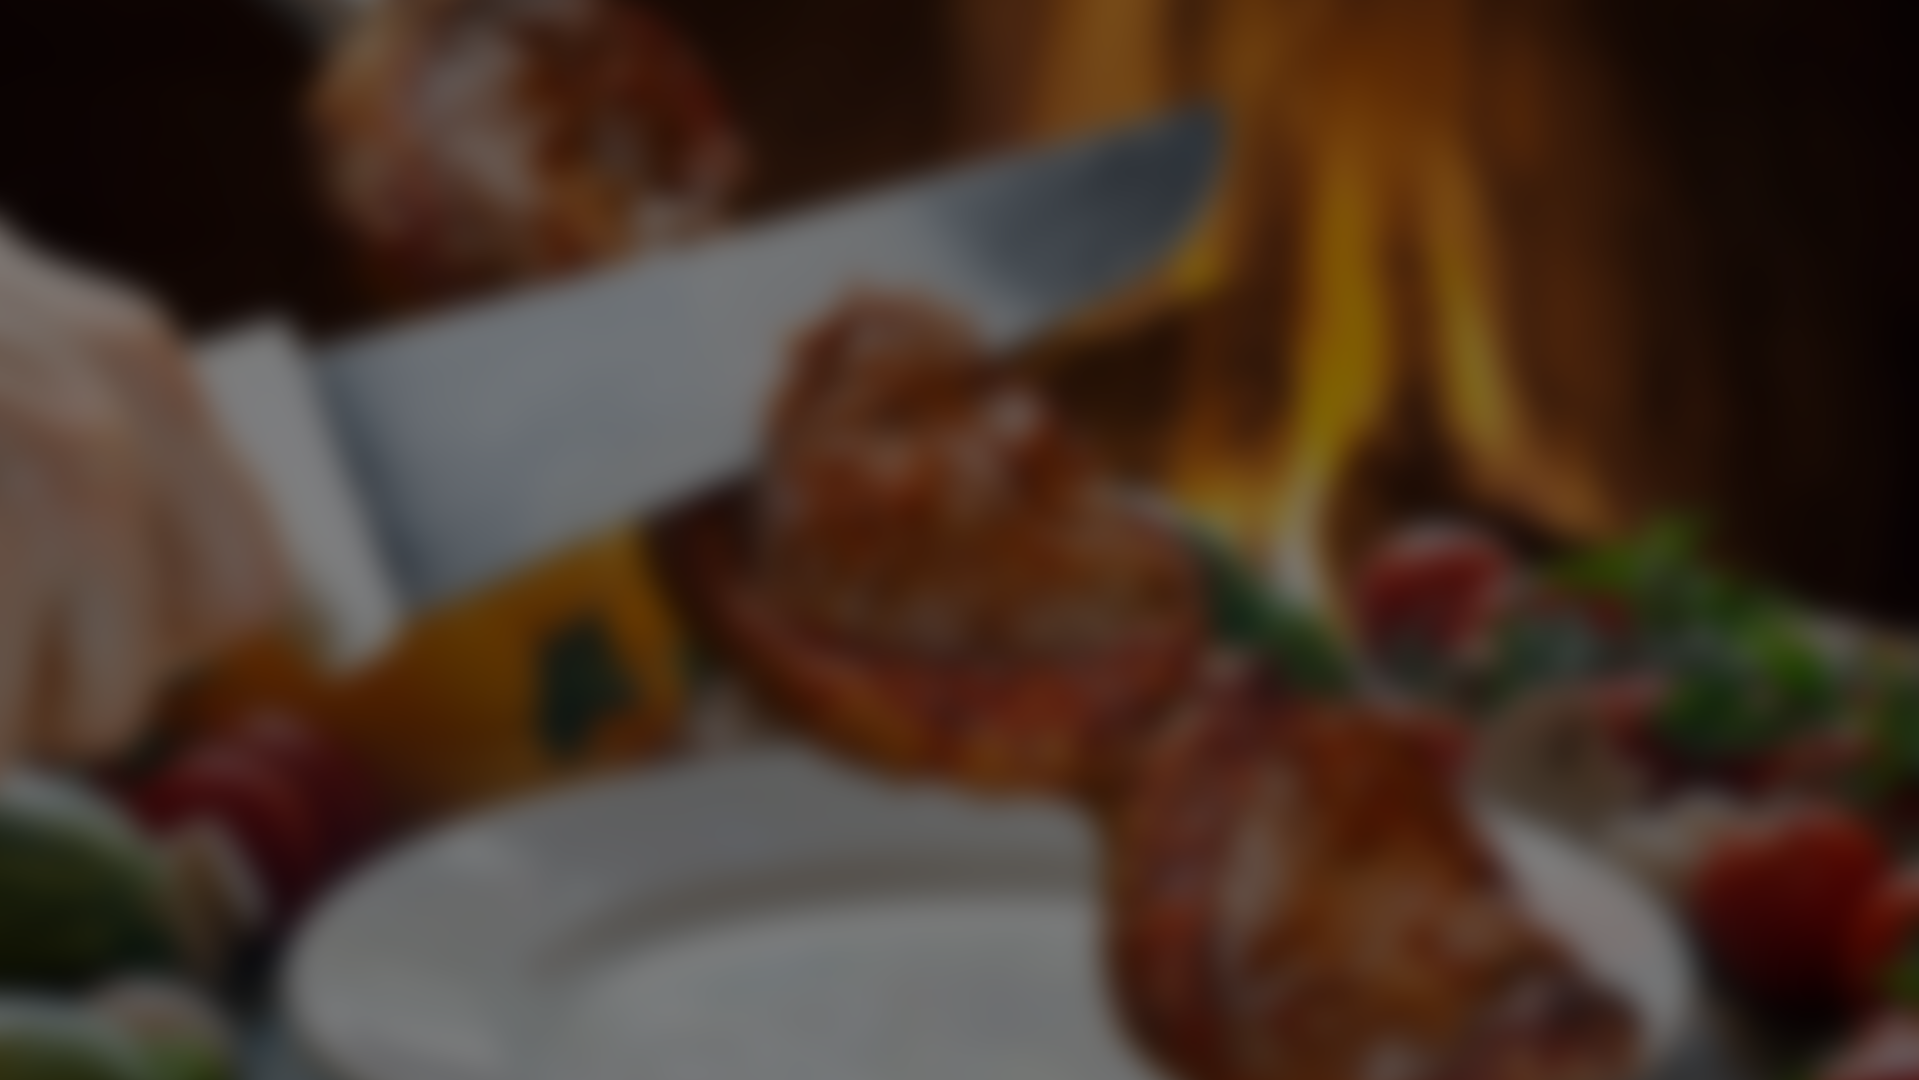
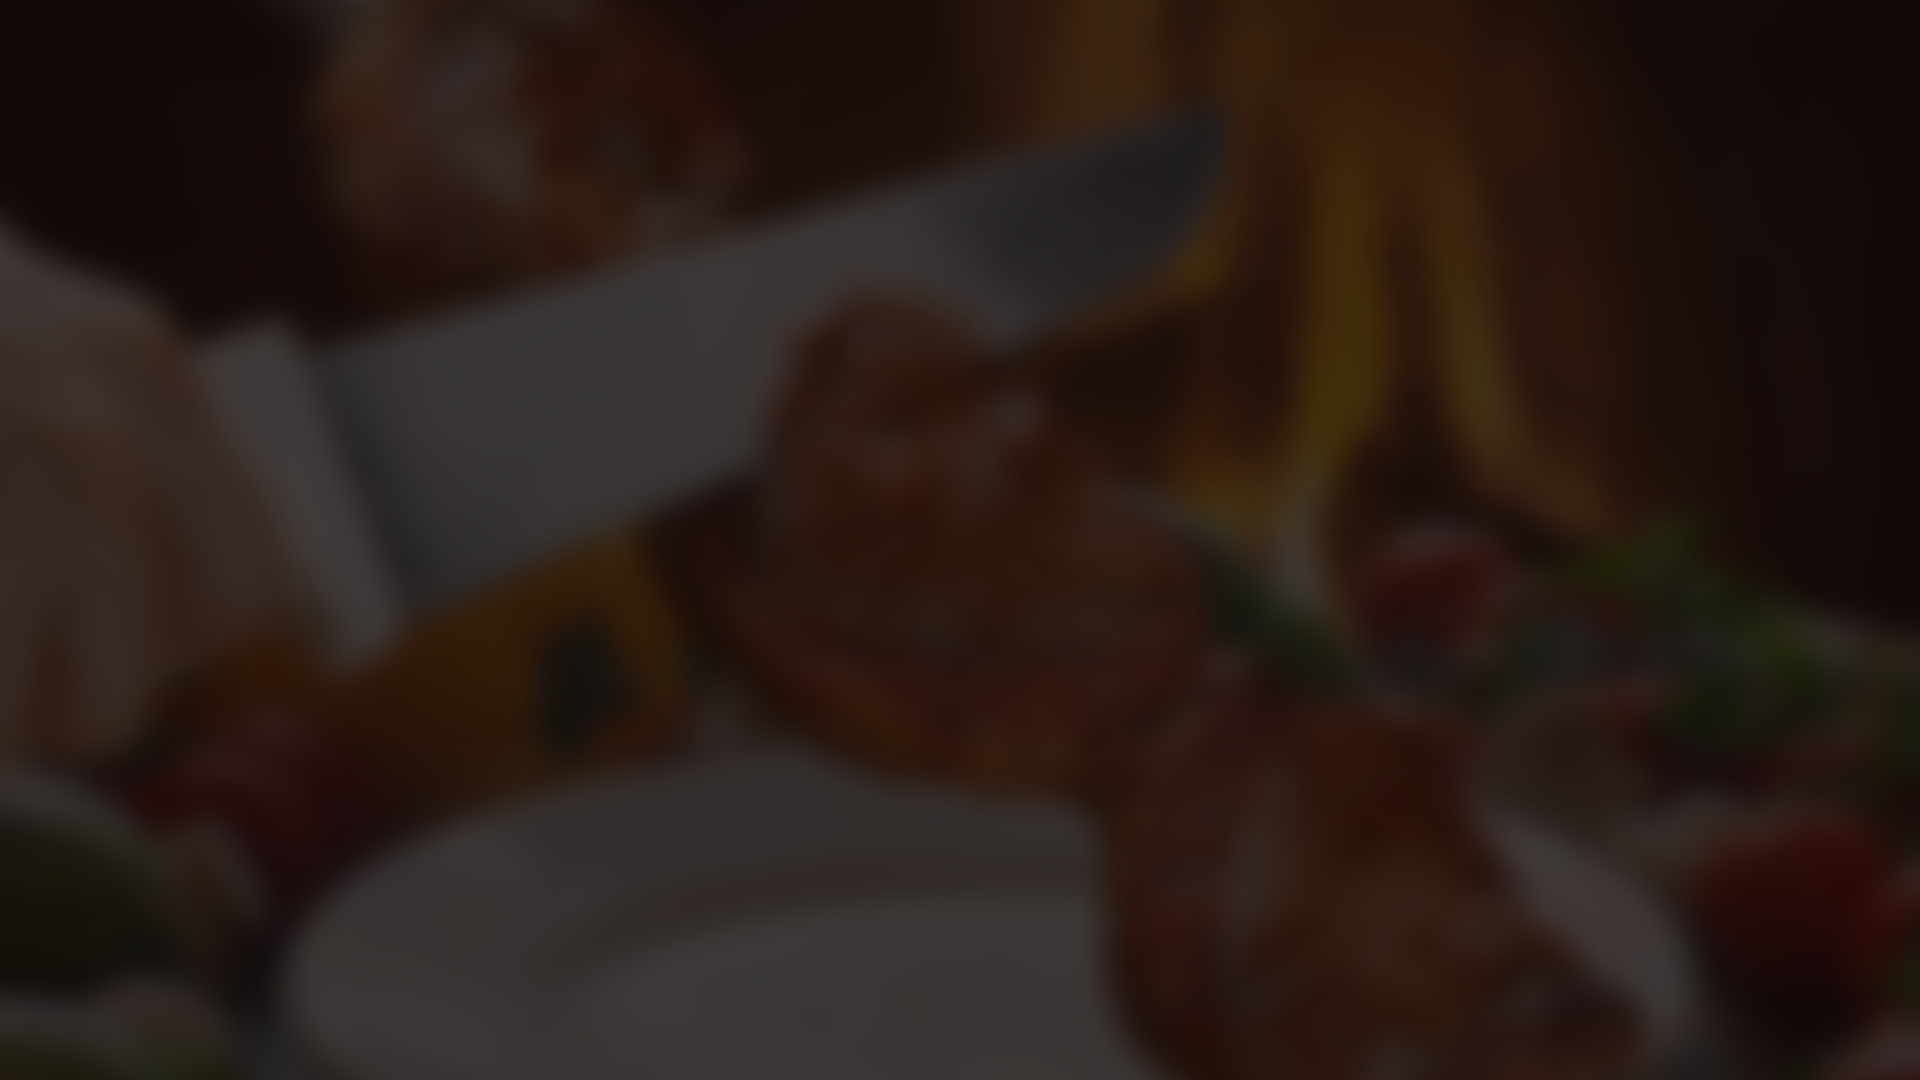
Updated info-box design and increased readability
info-box class changed to transparent background
backgrounds less colorful to improve readability

diff --git a/src/style.css b/src/style.css
@@ -1,21 +1,22 @@
 html {
-  font-family: Verdana, Geneva, sans-serif;
+  font-family: Arial, "Helvetica Neue", Helvetica, sans-serif;
   scroll-snap-type: y proximity;
 }
 
 .container {
   width: 100%;
-  max-width: 1200px;
+  max-width: 500px;
   margin: 0 auto;
   overflow: hidden;
 }
 
 h2 {
-  font-size: 3em;
+  font-size: 4em;
+  margin: 0;
 }
 
 p {
-  font-size: 1.5em;
+  font-size: 1.2em;
 }
 
 /*
@@ -45,7 +46,6 @@ CONTENT
 
 .content {
   color: #b2b2b2;
-  padding: 100px 0;
   min-height: 100vh;
   box-sizing: border-box;
   display: flex;
@@ -83,50 +83,49 @@ CONTENT
 }
 
 .info {
-  background-color: #fff;
-  padding: 30px;
-  padding-bottom: 150px;
+  padding-bottom: 100px;
   box-sizing: border-box;
   position: relative;
-  min-height: 400px;
-  height: 60vh;
-  box-shadow: 0 3px 10px #00000019;
-  margin: 10px 2%;
+  min-height: 275px;
 }
 
-.info .category {
-  position: absolute;
-  top: -10px;
-  background-color: #ccc;
-  padding: 5px;
-  color: #fff;
+.info p {
+  text-align: justify;
 }
 
 .info .links {
   text-align: right;
   position: absolute;
-  bottom: 30px;
-  right: 30px;
-}
-.links a {
-  color: #b2b2b2;
-  font-size: 2em;
-}
-.links .primary-link {
-  font-size: 3em;
-  line-height: 1.5em;
-  font-weight: bold;
+  bottom: 0;
+  right: 0;
 }
 
-@media (min-width: 1024px) {
-  .content .container {
+.links a {
+  color: #fff;
+  font-size: 1.2em;
+}
+
+.links .primary-link {
+  font-size: 2em;
+  line-height: 1.5em;
+  padding: 5px 10px;
+  text-decoration: none;
+}
+
+@media (min-width: 990px) {
+  .container {
     display: grid;
+    max-width: 1200px;
+  }
+
+  .content {
+    padding: 0 10px;
   }
 
   #rascal .container,
   #fogo-brasa .container {
     grid-template-columns: repeat(2, minmax(0, 1fr));
-    grid-gap: 1em;
+    grid-gap: 2em;
   }
 
   #rascal .info,
@@ -145,7 +144,11 @@ CONTENT
 
   #rascal .logo-box::after,
   #fogo-brasa .logo-box::after {
-    height: 97%;
+    height: 100%;
+  }
+
+  #apps.content {
+    padding: 0;
   }
 }
 
@@ -155,15 +158,19 @@ CONTENT
   background-image: url("../img/background-rascal-1.png");
 }
 
+#rascal h2 {
+  color: #3771b8;
+}
+
+#rascal p {
+  color: #4c260f;
+}
+
 #rascal .logo-box::after {
   background-color: #3771b8;
 }
 
 #rascal .primary-link {
-  color: #3771b8;
-}
-
-#rascal .category {
   background-color: #3771b8;
 }
 
@@ -173,20 +180,48 @@ CONTENT
   background-image: url("../img/background-fogo-brasa.png");
 }
 
+#fogo-brasa h2 {
+  color: #ff9c00;
+}
+
+#fogo-brasa p {
+  color: #f2dfd2;
+}
+
 #fogo-brasa .logo-box::after {
   background-color: #110a09;
 }
 
 #fogo-brasa .primary-link {
-  color: #ff9c00;
-}
-
-#fogo-brasa .category {
   background-color: #ff9c00;
+  color: #110a09;
 }
 
 /*apps*/
 
 #apps {
   background-color: #faebd7;
+}
+
+#apps > div {
+  min-height: 100vh;
+}
+
+#app1 {
+  background-color: #ccc;
+}
+
+#app2 {
+  background-color: #ddd;
+}
+
+#app3 {
+  background-color: #eee;
+}
+
+@media (min-width: 1420px) {
+  #apps {
+    display: grid;
+    grid-template-columns: repeat(3, minmax(0, 1fr));
+  }
 }

diff --git a/index.html b/index.html
@@ -22,13 +22,16 @@
           <img src="img/logo-rascal.png" alt="Rascal Volleyball" />
         </div>
         <div class="info" data-aos="fade-up">
-          <div class="category">グラフィックデザイン</div>
-          <h2>RASCALバレーボール</h2>
+          <h2>Rascal Volleyball</h2>
+          <p>
+            Visual identity and promotional goods for Rascal volleyball in
+            Yamanashi-ken. <br />Designs made in Adobe Photoshop.
+          </p>
           <p>
             山梨県のバレーボールチームのビジュアルアイデンティティ・グッズ。
           </p>
           <div class="links">
-            <a href="#" class="primary-link">もっと見る≫</a>
+            <a href="#" class="primary-link">See more ≫</a>
           </div>
         </div>
       </div>
@@ -39,12 +42,17 @@
           <img src="img/logo-fogo-brasa.png" alt="Fogo&Brasa" />
         </div>
         <div class="info" data-aos="fade-up">
-          <div class="category">WEBデザイン</div>
           <h2>Fogo&Brasa</h2>
+          <p>
+            Model page design for a Brazilian barbecue restaurant. <br />
+            Photoshop, HTML, CSS and JavaScript.
+          </p>
           <p>ブラジル料理のレストランのモデルWEBサイト。</p>
           <div class="links">
-            <a href="#" class="primary-link">WEBサイト≫</a><br />
-            <a href="#">GitHubへ</a>
+            <a href="https://onidus.github.io/fogo-brasa/" class="primary-link"
+              >Website ≫</a
+            ><br />
+            <a href="https://github.com/Onidus/fogo-brasa">view on GitHub</a>
           </div>
         </div>
       </div>
